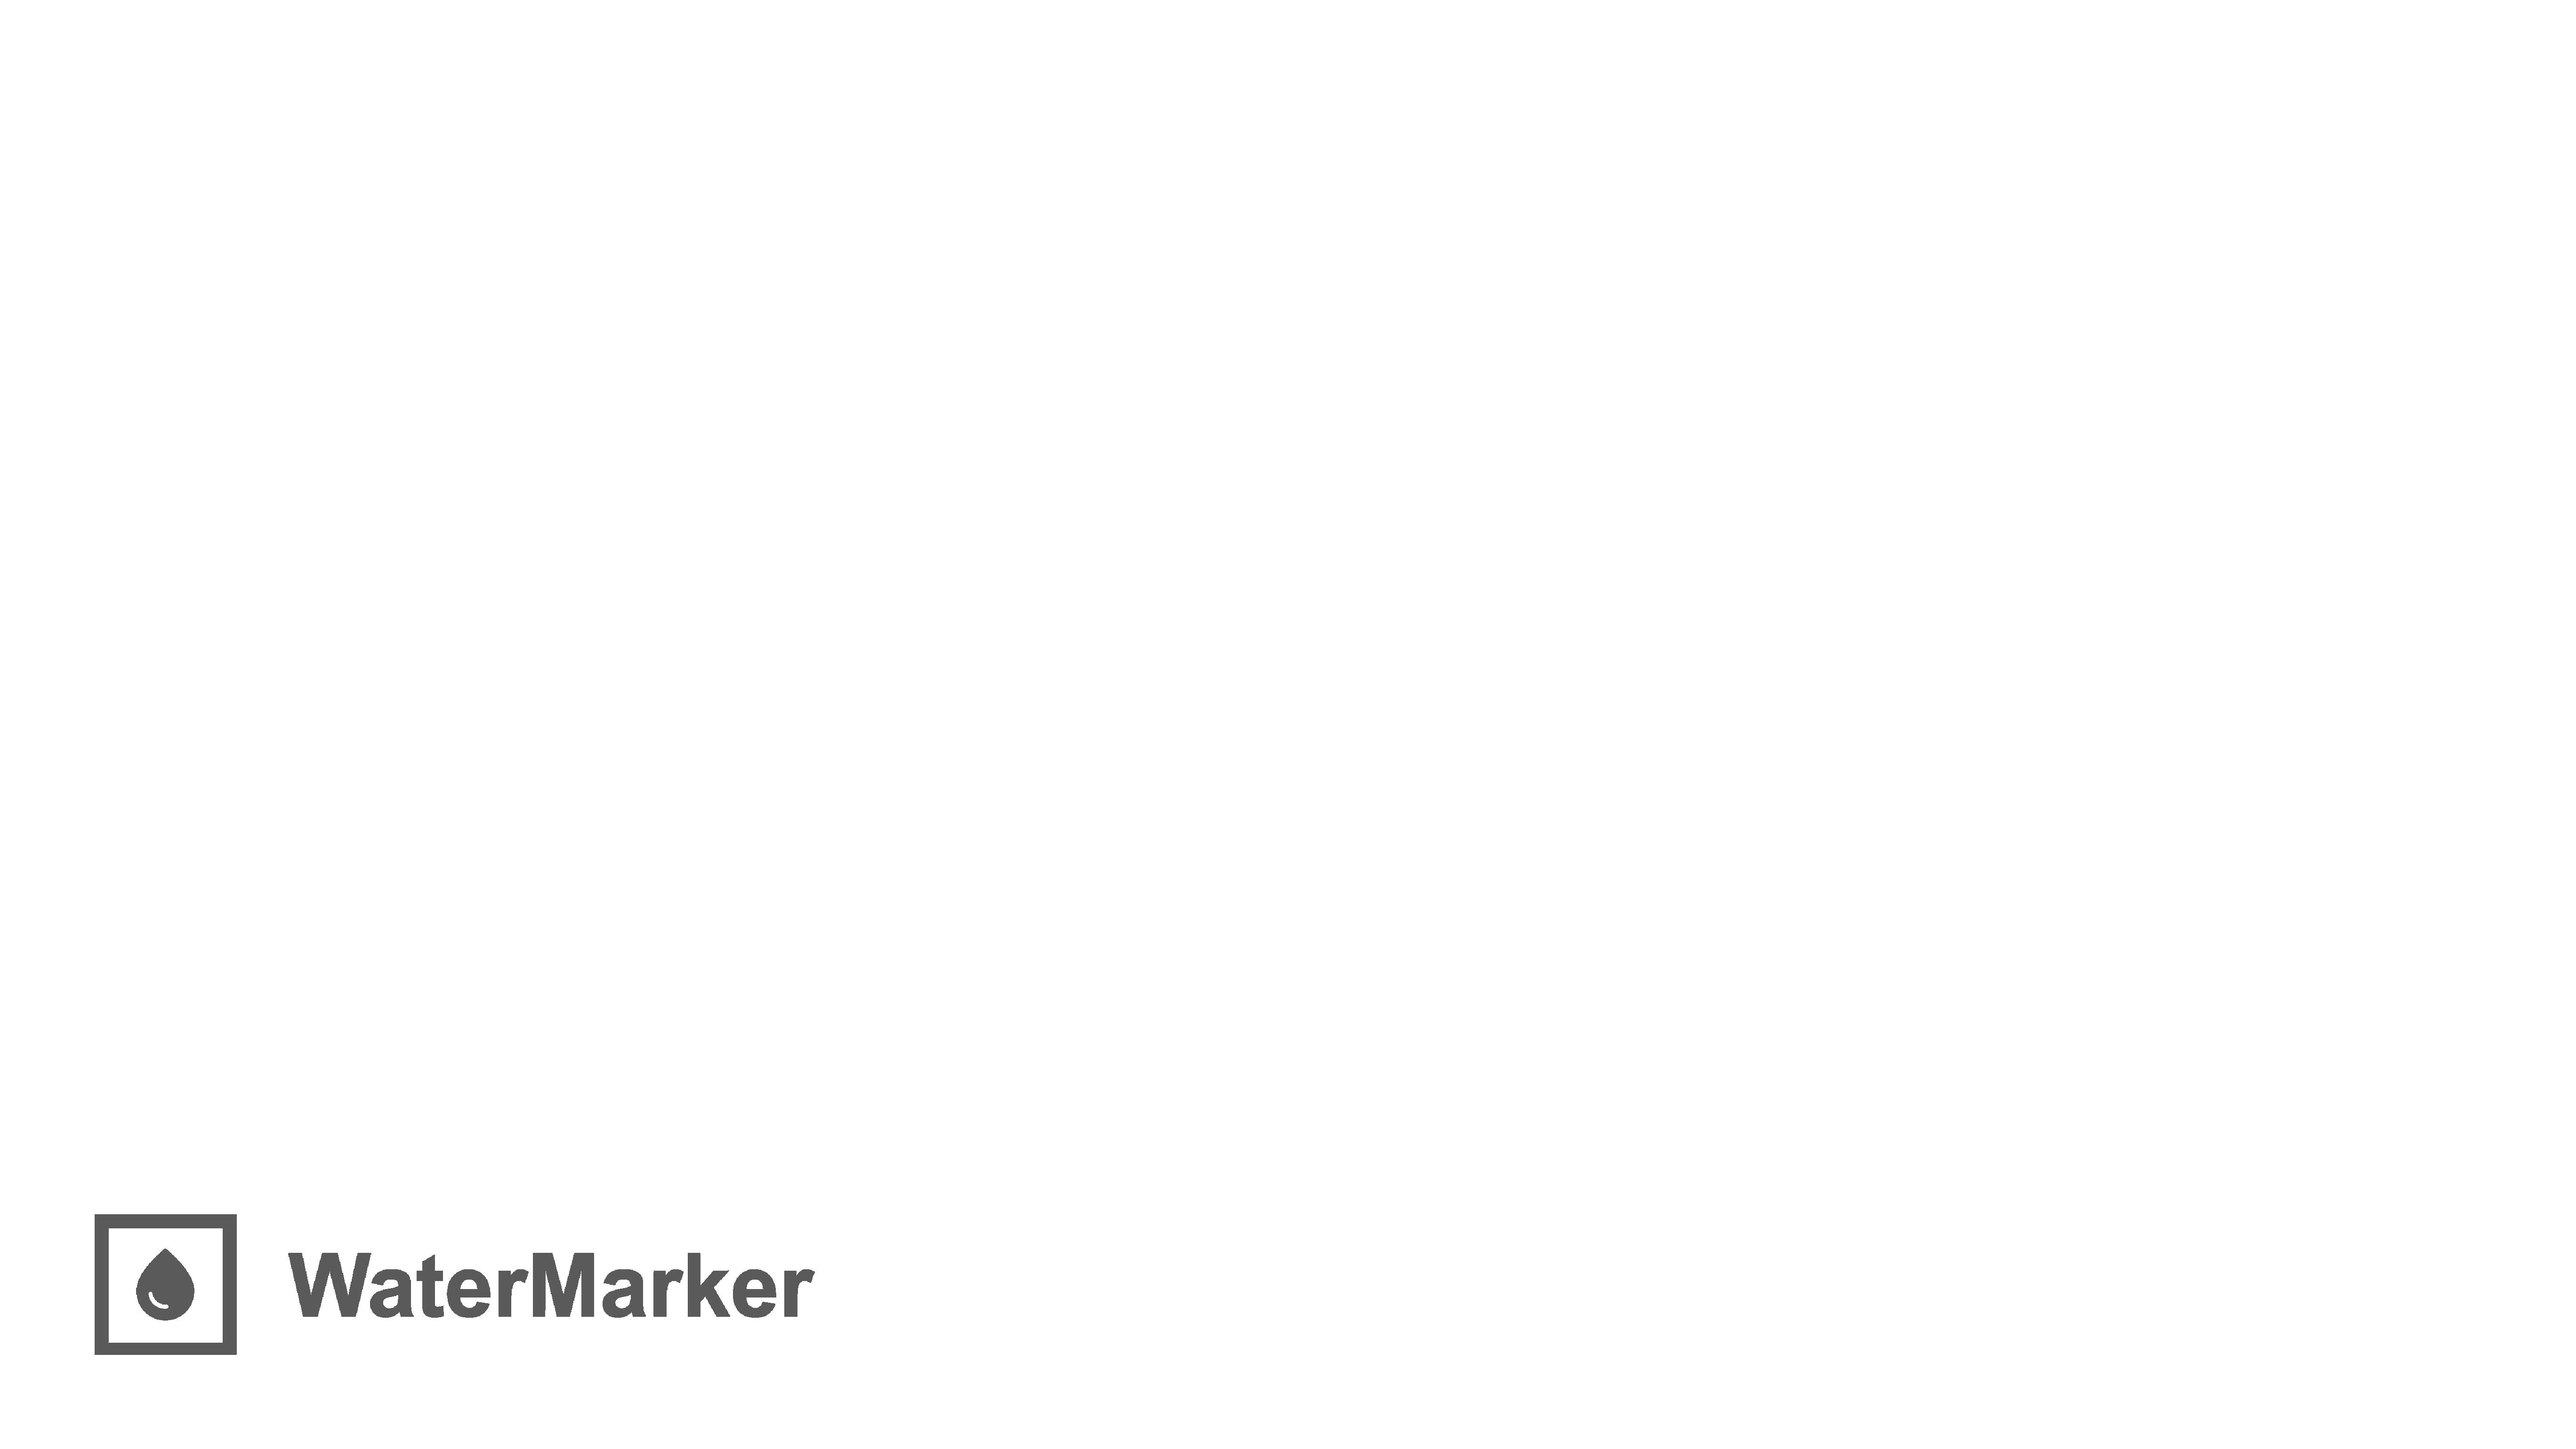
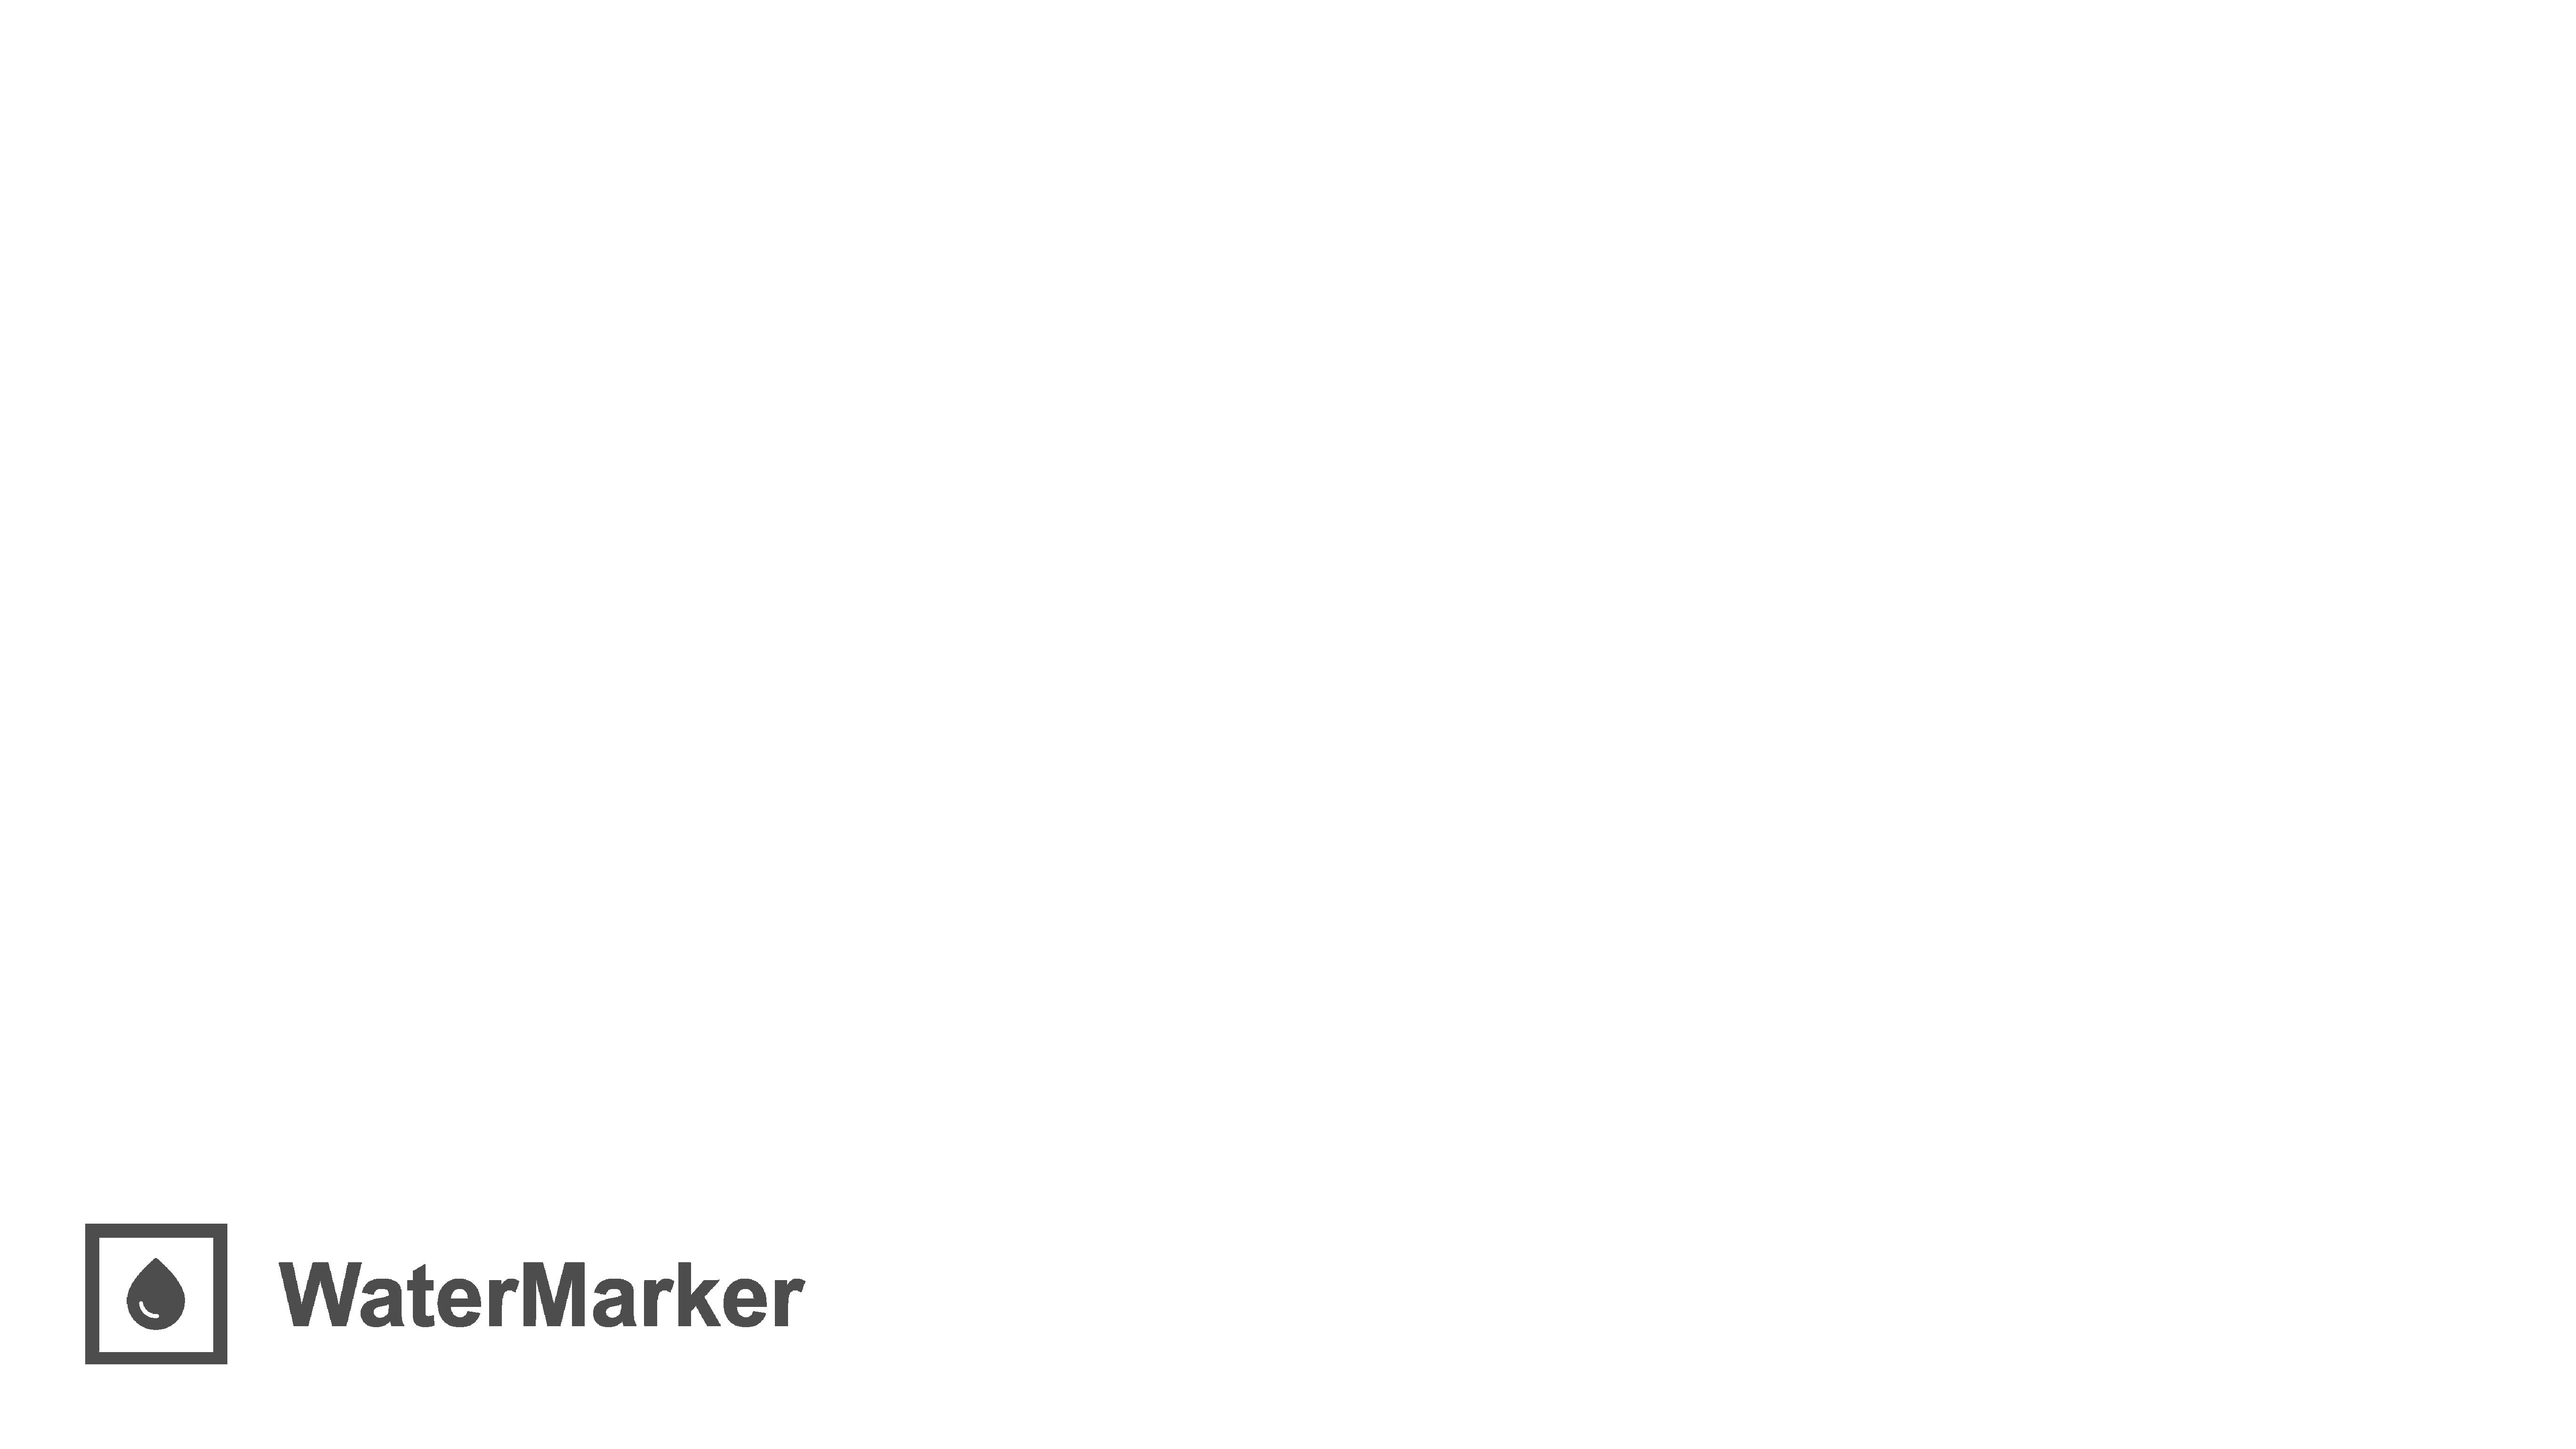
✨ Added relative padding

Changed region(s): [[0.0312, 0.8104, 0.3125, 0.9662]]

diff --git a/watermarker.py b/watermarker.py
@@ -4,7 +4,7 @@ import numpy as np
 from PIL import Image
 
 
-def watermark(img_path: string, output_path: string, watermark_path: string = './watermark/sample.png', rel_size: float = 0.021, padding: tuple[int, int] | tuple[float, float] = (200, 200), pos: string = 'BL', opacity: float = 0.6):
+def watermark(img_path: string, output_path: string, watermark_path: string = './watermark/sample.png', rel_size: float = 0.05, padding: tuple[int, int] or float = 0.5, pos: string = 'BL', opacity: float = 0.6):
     assert os.path.splitext(os.path.basename(watermark_path))[
         1] == '.png', "Watermark file must be of type PNG."
     assert pos in ['TL', 'TR', 'BL',
@@ -24,9 +24,10 @@ def watermark(img_path: string, output_path: string, watermark_path: string = '.
     new_wm_h = np.sqrt(rel_size * img_area / wm_ratio)
     new_wm_w = wm_ratio * new_wm_h
     wm_img = wm_img.resize((int(new_wm_w), int(new_wm_h)))
-
-    # Find positional data for watermark based on given pos value
     wm_w, wm_h = wm_img.size
+    # Find positional data for watermark based on given pos value
+    if type(padding) == float:
+        padding = (int(wm_h*padding), int(wm_h*padding))
     wm_pos = ()
     if pos == 'TL':
         wm_pos = (padding[0], padding[1])

diff --git a/ImageDirWatcher.py b/ImageDirWatcher.py
@@ -9,7 +9,7 @@ from ImageEventHandler import ImageEventHandler
 
 
 class ImageDirWatcher:
-    def __init__(self, input_path: string, output_path: string, watermark_path: string, rel_size: float, padding: tuple[int, int] | tuple[float, float], pos: string, opacity: float):
+    def __init__(self, input_path: string, output_path: string, watermark_path: string, rel_size: float, padding: tuple[int, int] or float, pos: string, opacity: float):
         self.__input_path = input_path
         self.__event_handler = ImageEventHandler(
             output_path, watermark_path, rel_size, padding, pos, opacity)
@@ -44,8 +44,8 @@ if __name__ == "__main__":
     output_path = './marked'
     watermark_path = './watermark/sample.png'
     pos = 'BL'
-    padding = (200, 200)
-    opacity = 0.65
+    padding = 0.6
+    opacity = 0.7
     rel_size = 0.03
 
     if not os.path.exists(watermark_path):

diff --git a/ImageEventHandler.py b/ImageEventHandler.py
@@ -4,13 +4,13 @@ import time
 
 from watchdog.events import RegexMatchingEventHandler
 
-from Watermarker import watermark
+from watermarker import watermark
 
 
 class ImageEventHandler(RegexMatchingEventHandler):
     IMAGES_REGEX = [r"(.*)\.jpg$"]
 
-    def __init__(self, output_path: string, watermark_path: string, rel_size: float, padding: tuple[int, int] | tuple[float, float], pos: string, opacity: float):
+    def __init__(self, output_path: string, watermark_path: string, rel_size: float, padding: tuple[int, int] or float, pos: string, opacity: float):
         self.__output_path = output_path
         self.__rel_size = rel_size
         self.__watermark_path = watermark_path
